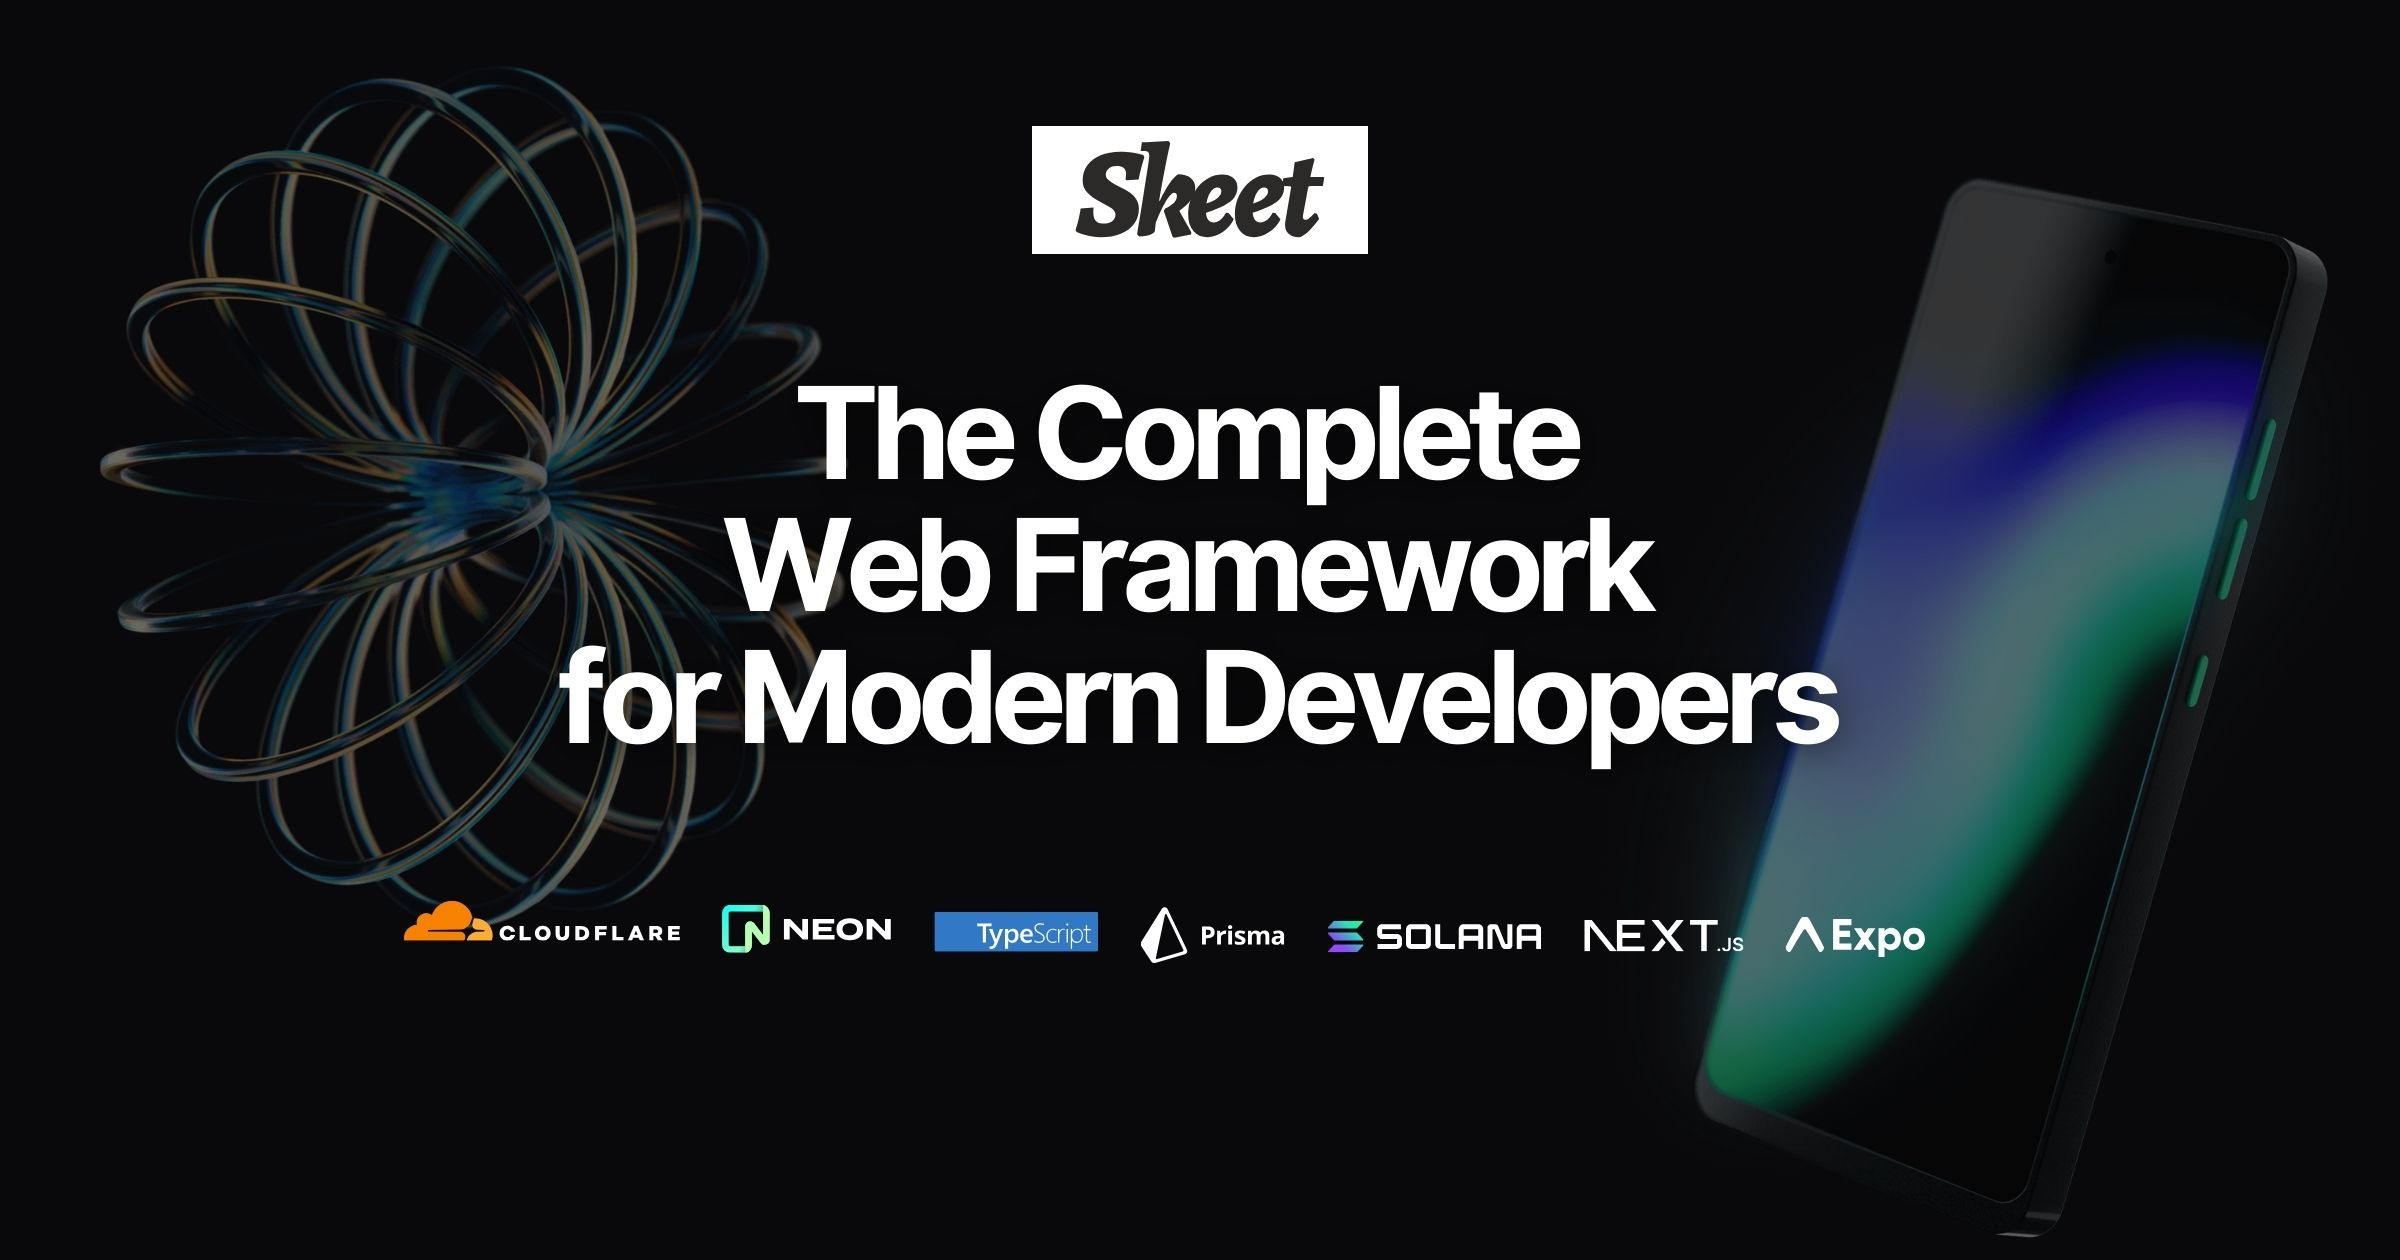
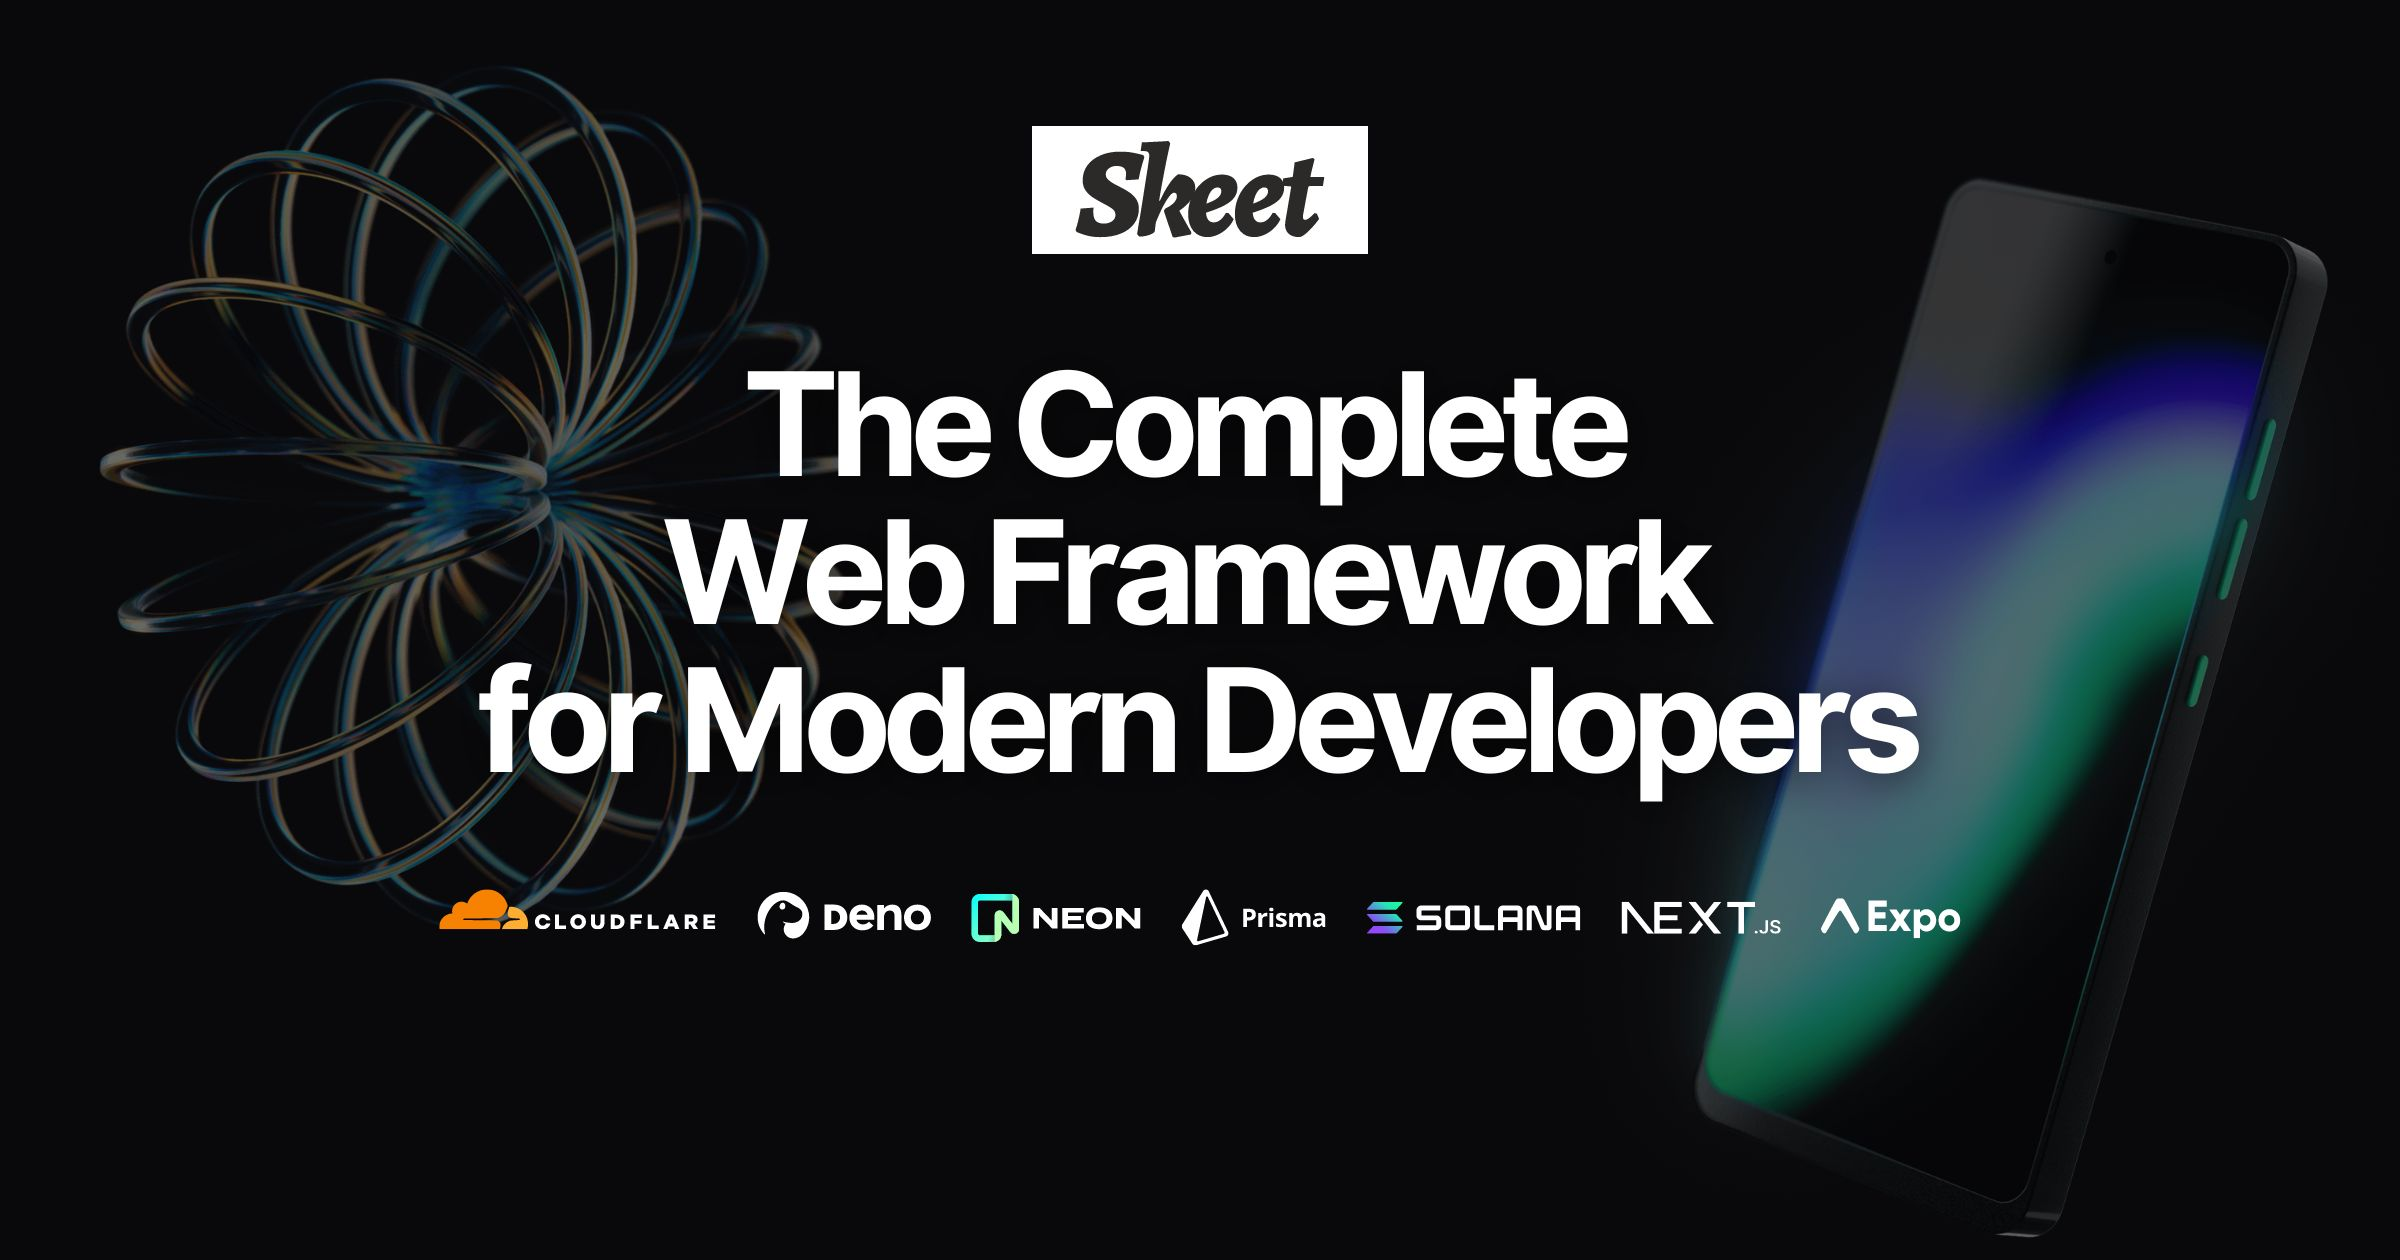
Skeet: Edge-Native Web Framework

Changed region(s): [[0.1875, 0.2786, 0.8125, 0.619], [0.1562, 0.7119, 0.8125, 0.7738]]

diff --git a/website/skeet-dev/src/app/[locale]/(default)/(home)/HomeHeroRow.tsx b/website/skeet-dev/src/app/[locale]/(default)/(home)/HomeHeroRow.tsx
@@ -3,6 +3,8 @@
 import {
   CloudFlareLogoHorizontal,
   CloudFlareLogoInvertHorizontal,
+  DenoLogoHorizontal,
+  DenoLogoInvertHorizontal,
   ExpoLogoHorizontal,
   ExpoLogoInvertHorizontal,
   NeonLogoHorizontal,
@@ -15,7 +17,6 @@ import {
   PrismaLogoInvertHorizontal,
   SolanaLogoHorizontal,
   SolanaLogoInvertHorizontal,
-  TypeScriptLogoHorizontal,
 } from '@/assets/img'
 import { Button } from '@/components/ui/button'
 import appInfo from '@appInfo'
@@ -38,17 +39,18 @@ const logos = [
     href: 'https://cloudflare.com/',
   },
   {
+    title: 'Deno',
+    logo: DenoLogoHorizontal,
+    logoInvert: DenoLogoInvertHorizontal,
+    href: 'https://deno.com/',
+  },
+  {
     title: 'Neon',
     logo: NeonLogoHorizontal,
     logoInvert: NeonLogoInvertHorizontal,
     href: 'https://neon.tech/',
   },
-  {
-    title: 'TypeScript',
-    logo: TypeScriptLogoHorizontal,
-    logoInvert: TypeScriptLogoHorizontal,
-    href: 'https://typescriptlang.org/',
-  },
+
   {
     title: 'Prisma',
     logo: PrismaLogoHorizontal,

diff --git a/website/skeet-dev/src/assets/img.ts b/website/skeet-dev/src/assets/img.ts
@@ -14,6 +14,8 @@ import NextLogoInvertHorizontal from '@/assets/img/logo/partners/NextLogoInvertH
 import PrismaLogoHorizontal from '@/assets/img/logo/partners/PrismaLogoHorizontal.svg'
 import PrismaLogoInvertHorizontal from '@/assets/img/logo/partners/PrismaLogoInvertHorizontal.svg'
 import TypeScriptLogoHorizontal from '@/assets/img/logo/partners/TypeScriptLogoHorizontal.svg'
+import DenoLogoHorizontal from '@/assets/img/logo/partners/DenoLogoHorizontal.svg'
+import DenoLogoInvertHorizontal from '@/assets/img/logo/partners/DenoLogoInvertHorizontal.svg'
 
 import OPOSClimate from '@/assets/img/icon/opos/Climate.png'
 import OPOSClosedCube from '@/assets/img/icon/opos/ClosedCube.png'
@@ -54,6 +56,8 @@ export {
   PrismaLogoHorizontal,
   PrismaLogoInvertHorizontal,
   TypeScriptLogoHorizontal,
+  DenoLogoHorizontal,
+  DenoLogoInvertHorizontal,
   OPOSClimate,
   OPOSClosedCube,
   OPOSCompressedCoil,

diff --git a/README.md b/README.md
@@ -35,7 +35,7 @@ Repository for Solana dApp Demo: https://github.com/elsoul/skeet-v3-solana-dapp-
 
 ## The Complete Web Framework for Modern Developers
 
-With Skeet v3, we’ve fully migrated to Cloudflare, eliminating cold starts and introducing support for edge runtime. It has been transformed into a serverless-native architecture, optimized for the modern web.
+With Skeet v3, we’ve fully migrated to Cloudflare, eliminating cold starts and introducing support for edge runtime. It has been transformed into a edge-native architecture, optimized for the modern web.
 
 🚧 The Skeet development team is currently focused on building v3. Active development is underway.
 
@@ -50,10 +50,8 @@ v2 Documentation: https://skeet.dev/en/v2doc/general/overall-architecture
 
 ## Built with
 
+- [Deno](https://deno.com/)
 - [TypeScript](https://www.typescriptlang.org/)
-- [ESLint](https://eslint.org/)
-- [Prettier](https://prettier.io/)
-- [pnpm](https://pnpm.io/)
 - [Cloudflare Workers](https://workers.cloudflare.com/)
 - [Cloudflare KV](https://developers.cloudflare.com/kv/)
 - [Cloudflare Durable Objects](https://developers.cloudflare.com/durable-objects/)
